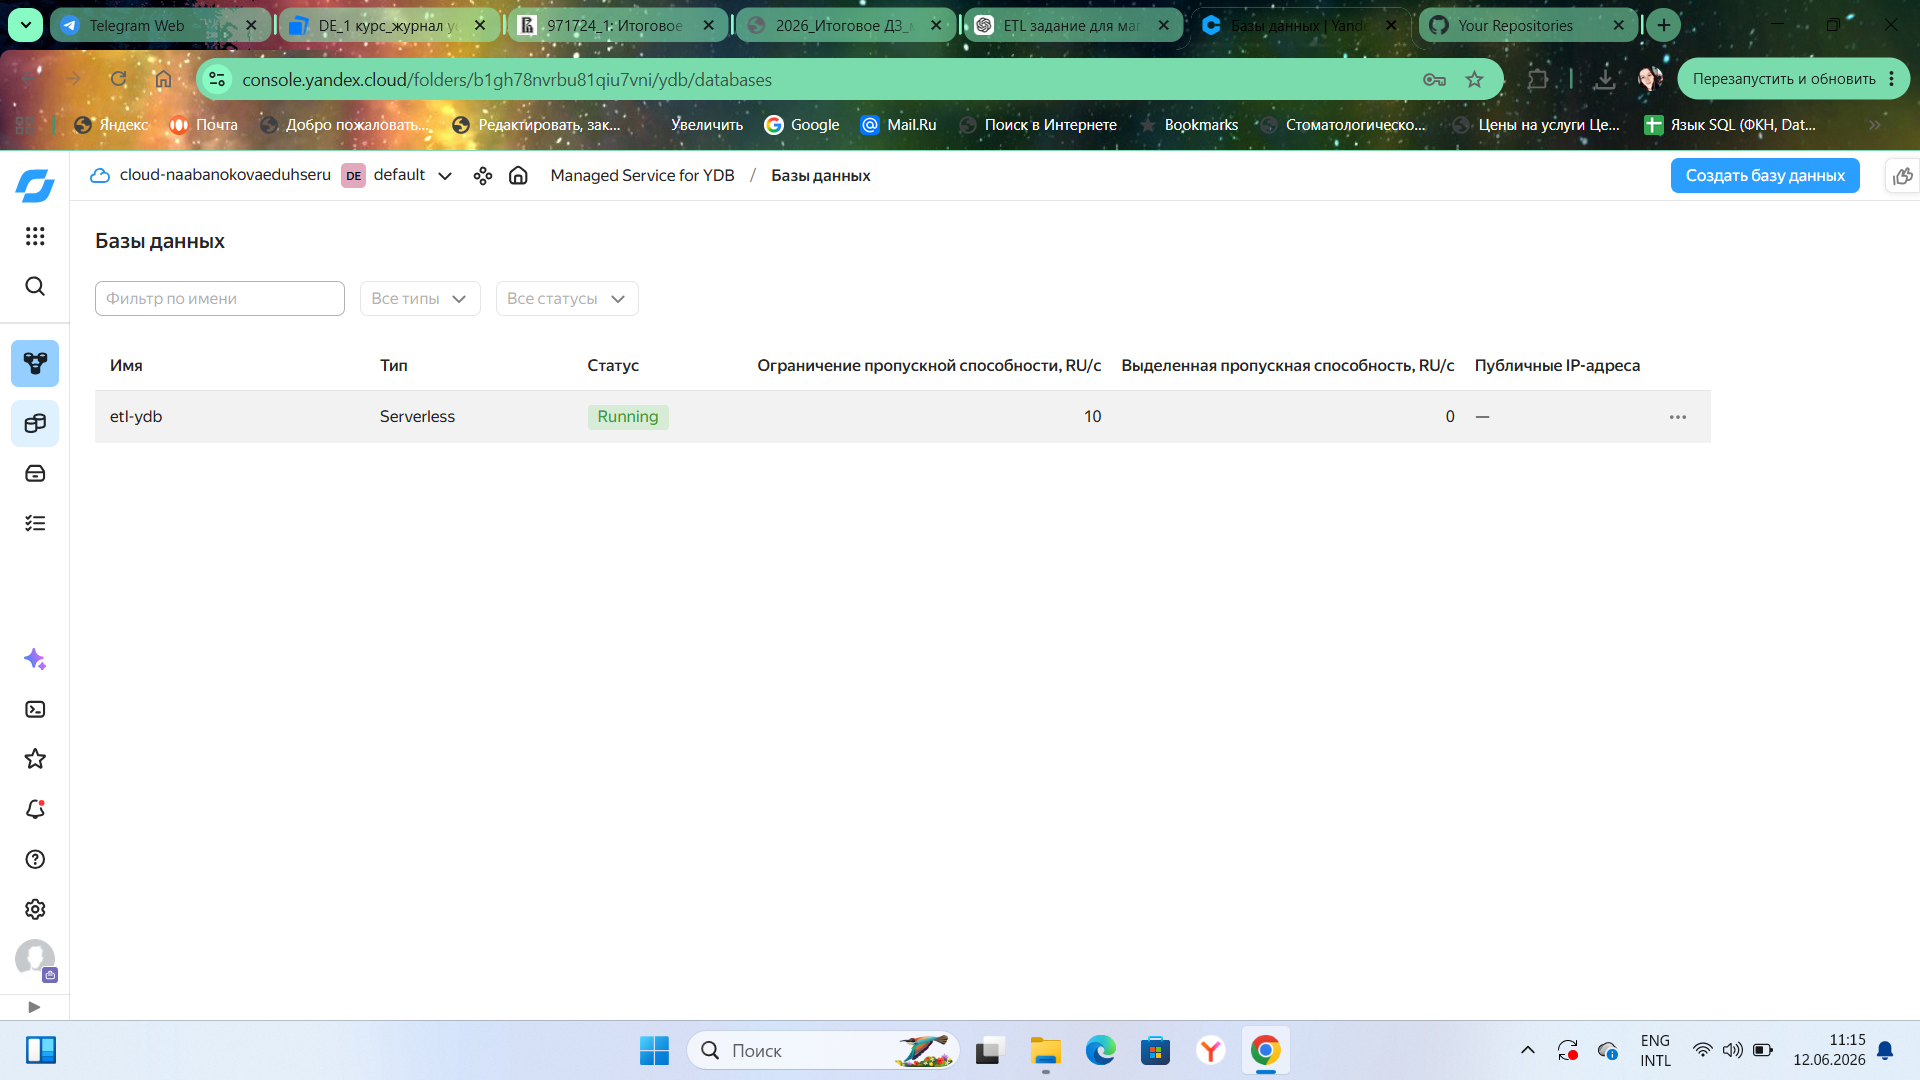
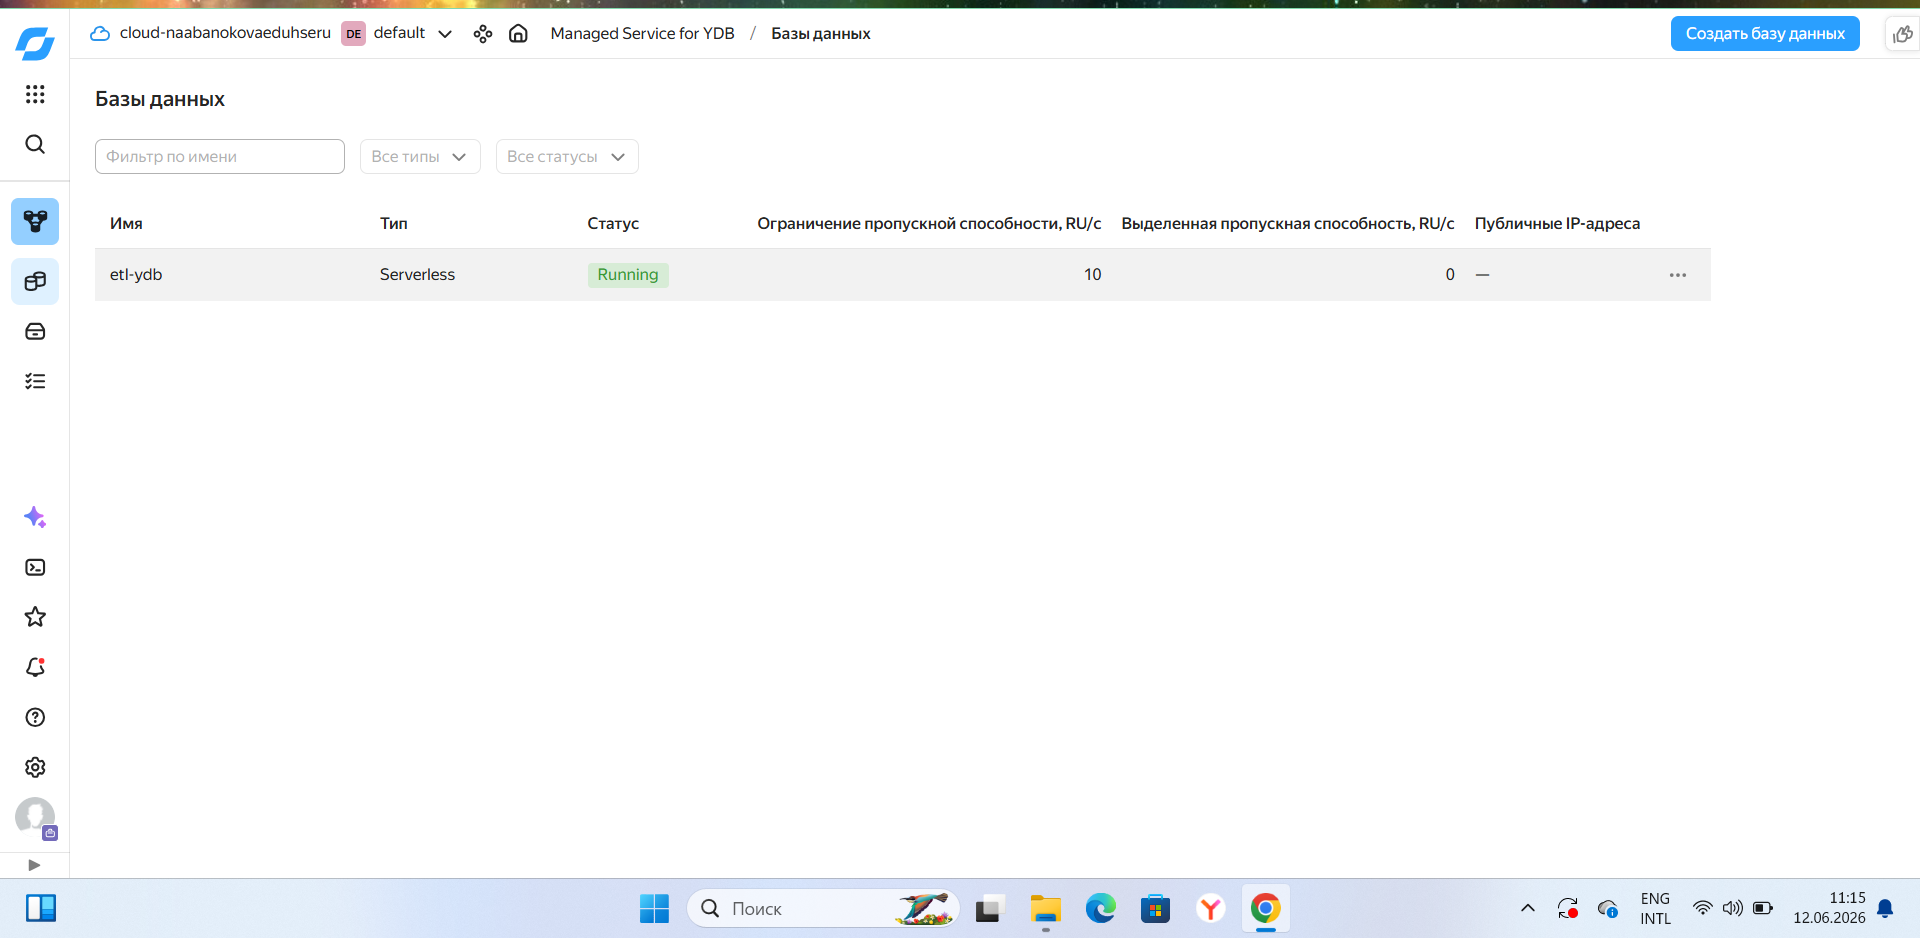
Fix README surname and update screenshot

diff --git a/README.md b/README.md
@@ -2,7 +2,7 @@
 
 ## Реализация ETL-процесса в Yandex Cloud
 
-Студент: Нелли Мамухова
+Студент: Абанокова Нелли Ахмедовна
 Дисциплина: ETL-процессы
 Модуль: 4
 